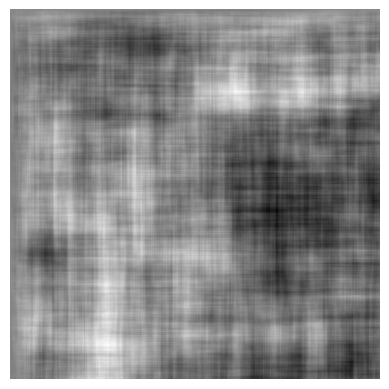
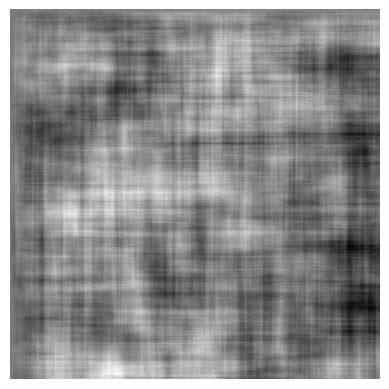
working lab2

diff --git a/lab2/src/mainFunc.py b/lab2/src/mainFunc.py
@@ -1,14 +1,102 @@
 import numpy as np
 from PIL import Image, ImageDraw
 import matplotlib.pyplot as plt
+import sys
 import math
-from specAnalFunctions import betterSpecAnaly, plotSpecAnalyse
+from specAnalFunctions import betterSpecAnaly, plotPSF, specAnal
 
 if __name__== '__main__':
-    # Read in a gray scale TIFF image.
-    im = Image.open('img04g.tif')
+    image=sys.argv[1]
+    show=sys.argv[2]
+    # # Read in a gray scale TIFF image.
+    # im = Image.open(image)
+    # print('Read'+str(image))
+    # print('Image size: ', im.size)
 
-    x = np.array(im).astype(np.double)
+    # # Display image object by PIL.
+    # im.show(title='image')
+
+    # # Import Image Data into Numpy array.
+    # # The matrix x contains a 2-D array of 8-bit gray scale values. 
+    # x = np.array(im)
+    # print('Data type: ', x.dtype)
+
+    # # Display numpy array by matplotlib.
+    # plt.imshow(x, cmap=plt.cm.gray)
+    # plt.title('Image')
+    # print("size: ", im.size)
+    # # Set colorbar location. [left, bottom, width, height].
+    # cax =plt.axes([0.9, 0.15, 0.04, 0.7]) 
+    # plt.colorbar(cax=cax)
+    # plt.show()
+
+    # x = np.array(im).astype(np.double)
+    # Ns=[64, 128,256]
+    # for i in Ns:
+    #     psf=specAnal(x, i)
+    #     title=f"PSF with window: {i}"
+    #     fname=f"psf{i}.png"
+    #     plotPSF(psf,i,title, fname, show)
+        
+    # N=64 
+    # betterPsf=betterSpecAnaly(x, N, 25)
+    # plotPSF(betterPsf, N, "Section 1.3 PSF Plot", "psf_25.png", show)
+
+    #Part 2
     N=64
-    spec=betterSpecAnaly(x, N, 25)
-    plotSpecAnalyse(spec, N)
+    size=(512,512)
+    x=np.random.uniform(-0.5,0.5,size)
+    x_scaled=255*(x+0.5)
+    img=Image.fromarray(x_scaled.astype(np.uint8))
+    img.save("scaled_random_img.png")
+
+    y=np.zeros(size)
+    for i in range(size[0]):
+        for j in range(size[1]):
+            if (i==0) or (j==0):
+                y[i,j]=0
+            else:
+                y[i,j]=3*x[i,j]+0.99*(y[i-1,j]+y[i,j-1])-0.9801*(y[i-1,j-1])
+
+    shiftedy=y+127    
+    plt.imshow(shiftedy,cmap=plt.cm.gray)
+    # ax=plt.gca()
+    # ax.set_axis_off()
+    # imgy=Image.fromarray(shiftedy.astype(np.uint8))
+    # plt.savefig("scaled_y.png")
+    # print(y.shape)
+    
+    a=b= np.linspace(-np.pi, np.pi, N)
+    X, Y = np.meshgrid(a, b)
+
+    S_y=np.log((1/12)*(np.abs(3/((1-0.99*(np.exp(-1j*X)))*(1-0.99*np.exp(-1j*Y))))**2))
+    Stitle=f"Theoretical Y magnitude"
+    Sname=f"theoretical_y.png"
+    plotPSF(S_y, N, Stitle, Sname, True)
+
+    # fig=plt.figure(figsize=(16,8))
+    # ax=plt.gca()
+    # ax.set_axis_off()
+    # ax=fig.add_subplot(121, projection='3d')
+    # surf = ax.plot_surface(X, Y, S_y, cmap=plt.cm.coolwarm)
+    # ax.set_xlabel('$\\mu$ axis')
+    # ax.set_ylabel('$\\nu$ axis')
+    # ax.set_zlabel('Z Label')
+    # fig.colorbar(surf, shrink=0.5, aspect=5)
+    
+    # ax.fig.add_subplot(122)
+    # cont=ax.contourf(X,Y,S_y, cmap=plt.cm.coolwarm)
+    # ax.set_xlabel('$\\mu$ axis')
+    # ax.set_ylabel('$\\nu$ axis')
+    # plt.title("Theoretical Y Magnitude")
+    # plt.savefig("theoretical_y.png")
+    # plt.show()
+
+    ypsfbetter=betterSpecAnaly(y,N, 25)
+    ytitle=f"PSF of Y"
+    yname=f"ypsf_better.png"
+    plotPSF(ypsfbetter,N, ytitle,yname,True)
+
+
+
+

diff --git a/lab2/src/specAnalFunctions.py b/lab2/src/specAnalFunctions.py
@@ -3,53 +3,72 @@ from PIL import Image, ImageDraw
 import matplotlib.pyplot as plt
 import math
 
+def specAnal(x, N):
+    i = 99
+    j = 99
+
+    z = x[i:N+i, j:N+j]
+
+    # Compute the power spectrum for the NxN region.
+    Z = (1/N**2)*np.abs(np.fft.fft2(z))**2
+
+    # Use fftshift to move the zero frequencies to the center of the plot.
+    Z = np.fft.fftshift(Z)
+
+    # Compute the logarithm of the Power Spectrum.
+    Zabs = np.log(Z)
+    return Zabs
+
+
 def betterSpecAnaly(x, N,winSize):
-    height=x.shape[0]
-    width=x.shape[1]
+    height=x.shape[1]
+    width=x.shape[0]
     hstart=math.floor((height-(5*N))/2)
     wstart=math.floor((width-(5*N))/2)
-    Z=np.zeros((N,N))
-
-    upRtCn=[]
-    winx=winy=int(math.sqrt(winSize))//2
-    for i in range(1,winx):
-        for j in range(1,winy):
-            l=hstart+(i-1)*N
-            m=wstart+(j-1)*N 
-            upRtCn.append(tuple((l,m)))
+    psf=np.zeros((N,N))
 
     W=np.outer(np.hamming(N),np.hamming(N))
-    pow=np.zeros((N,N))
-    for (i, j) in upRtCn:
-       print(i, j)
-       z=x[i:i+N, j:j+N]
-       z=W * z
-       Z=(1/N**2)*np.abs(np.fft.fft2(z))**2
-       Z=np.fft.fftshift(Z)
-    #    pow+=np.fft.fftshift((1/N**2)*np.abs(np.fft.fft2(z))**2)
-       pow+=Z
-       
-    pow*=(1/winSize) 
-    logpow=np.log(pow)
-    
-    # Z=np.log(Z/winSize)
-    print(pow.shape)
-    return logpow
+ 
+    for j in range (1,6):
+        for i in range(1,6):
+            starj=hstart+(i-1)*N
+            stari=wstart+(j-1)*N
+            z=x[stari:stari+N, starj:starj+N]
+            z=z*W
+            Z=(1/N**2)*np.abs(np.fft.fft2(z))**2
+            Z=np.fft.fftshift(Z)
+            psf+=Z
 
-    # fig = plt.figure()
-    # ax = fig.add_subplot(111, projection='3d')
-    # a = b = np.linspace(-np.pi, np.pi, N)
-    # X, Y = np.meshgrid(a, b)
+    logpsf=np.log(psf/25) 
+    return logpsf
 
-    # surf = ax.plot_surface(X, Y, Z, cmap=plt.cm.coolwarm)
+def plotPSF(Z, N, title="", save="", show=True):
 
-    # ax.set_xlabel('$\\mu$ axis')
-    # ax.set_ylabel('$\\nu$ axis')
-    # ax.set_zlabel('Z Label')
+    a = b = np.linspace(-np.pi, np.pi, N)
+    X, Y = np.meshgrid(a, b)
 
-    # fig.colorbar(surf, shrink=0.5, aspect=5)
+    fig = plt.figure(figsize=(16,8))
+    if title:
+        plt.title(title)
+    ax=plt.gca()
+    ax.set_axis_off()
 
-    # plt.show()
+    ax = fig.add_subplot(121, projection='3d')
+    surf = ax.plot_surface(X, Y, Z, cmap=plt.cm.coolwarm)
+    ax.set_xlabel('$\\mu$ axis')
+    ax.set_ylabel('$\\nu$ axis')
+    ax.set_zlabel('Z Label')
+    fig.colorbar(surf, shrink=0.5, aspect=5)
+
+    ax=fig.add_subplot(122)
+    cont=ax.contourf(X,Y,Z, cmap=plt.cm.coolwarm)
+    ax.set_xlabel('$\\mu$ axis')
+    ax.set_ylabel('$\\nu$ axis')
+
+    if save:
+        plt.savefig(save)
+    if show:
+        plt.show()
 
 def plotSpecAnalyse(S, windowSize, plotTitle="", savePlot="", showPlot=True):
     u = v = np.linspace(-np.pi, np.pi, windowSize)
